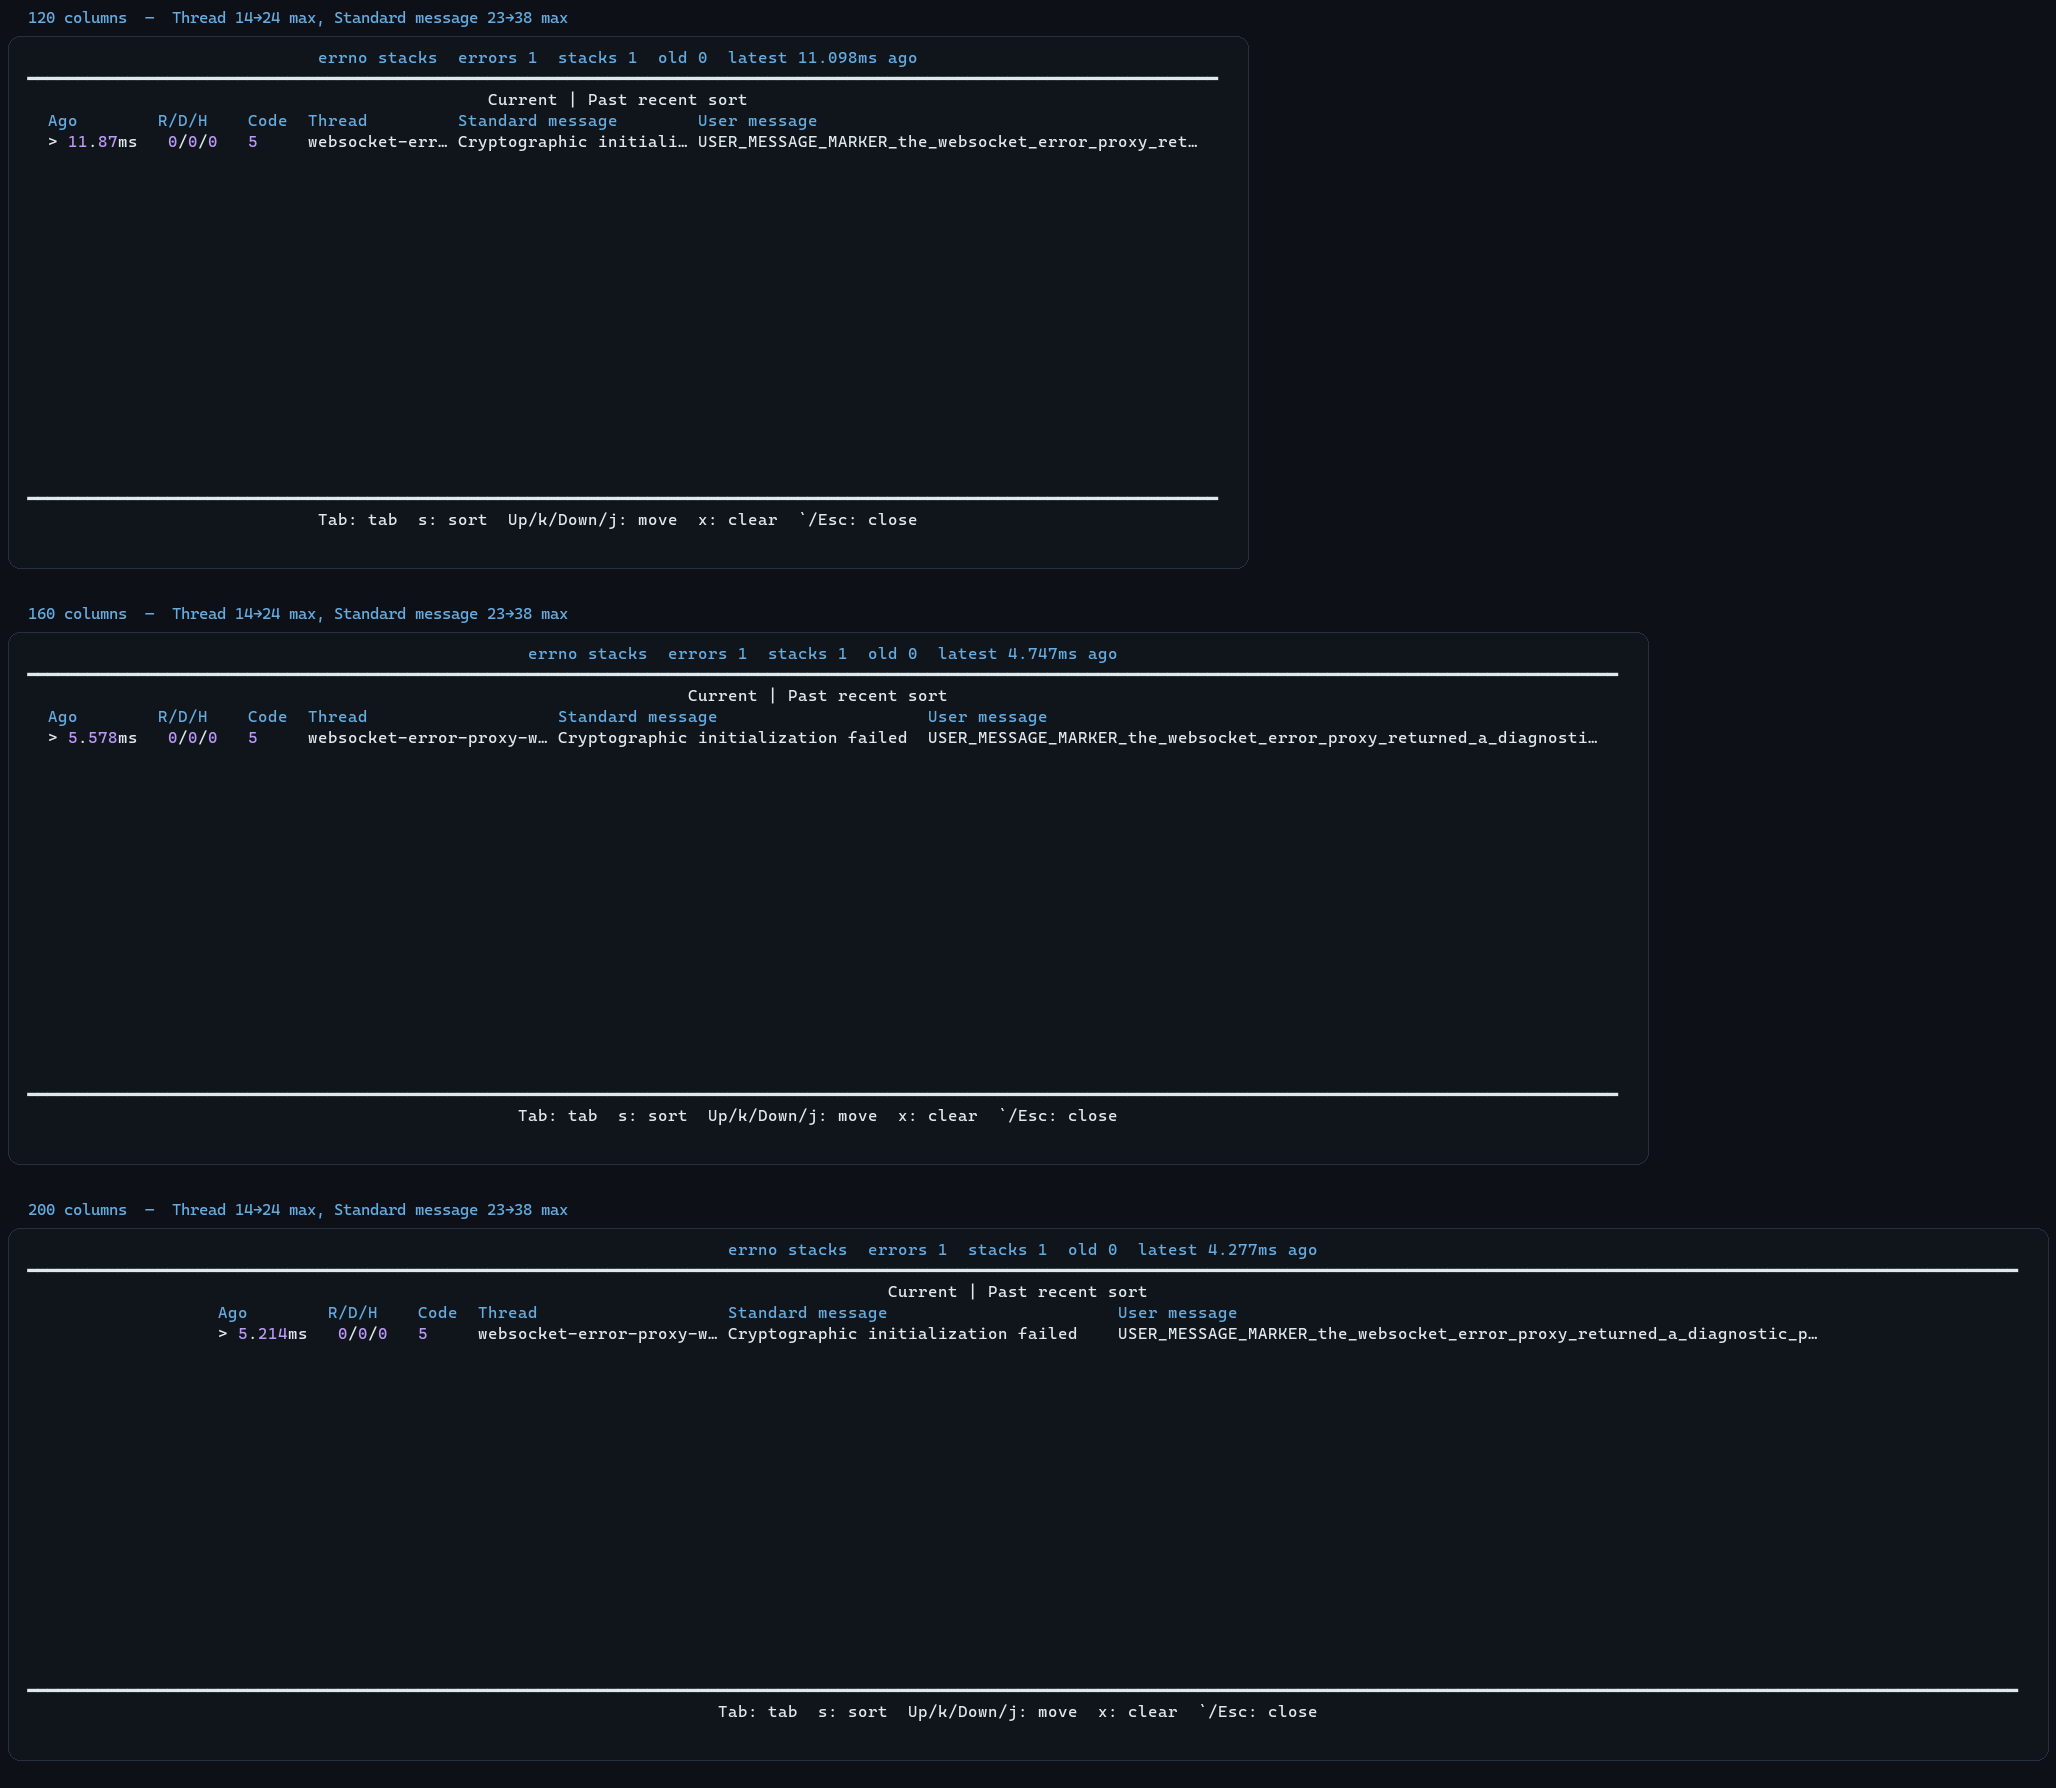
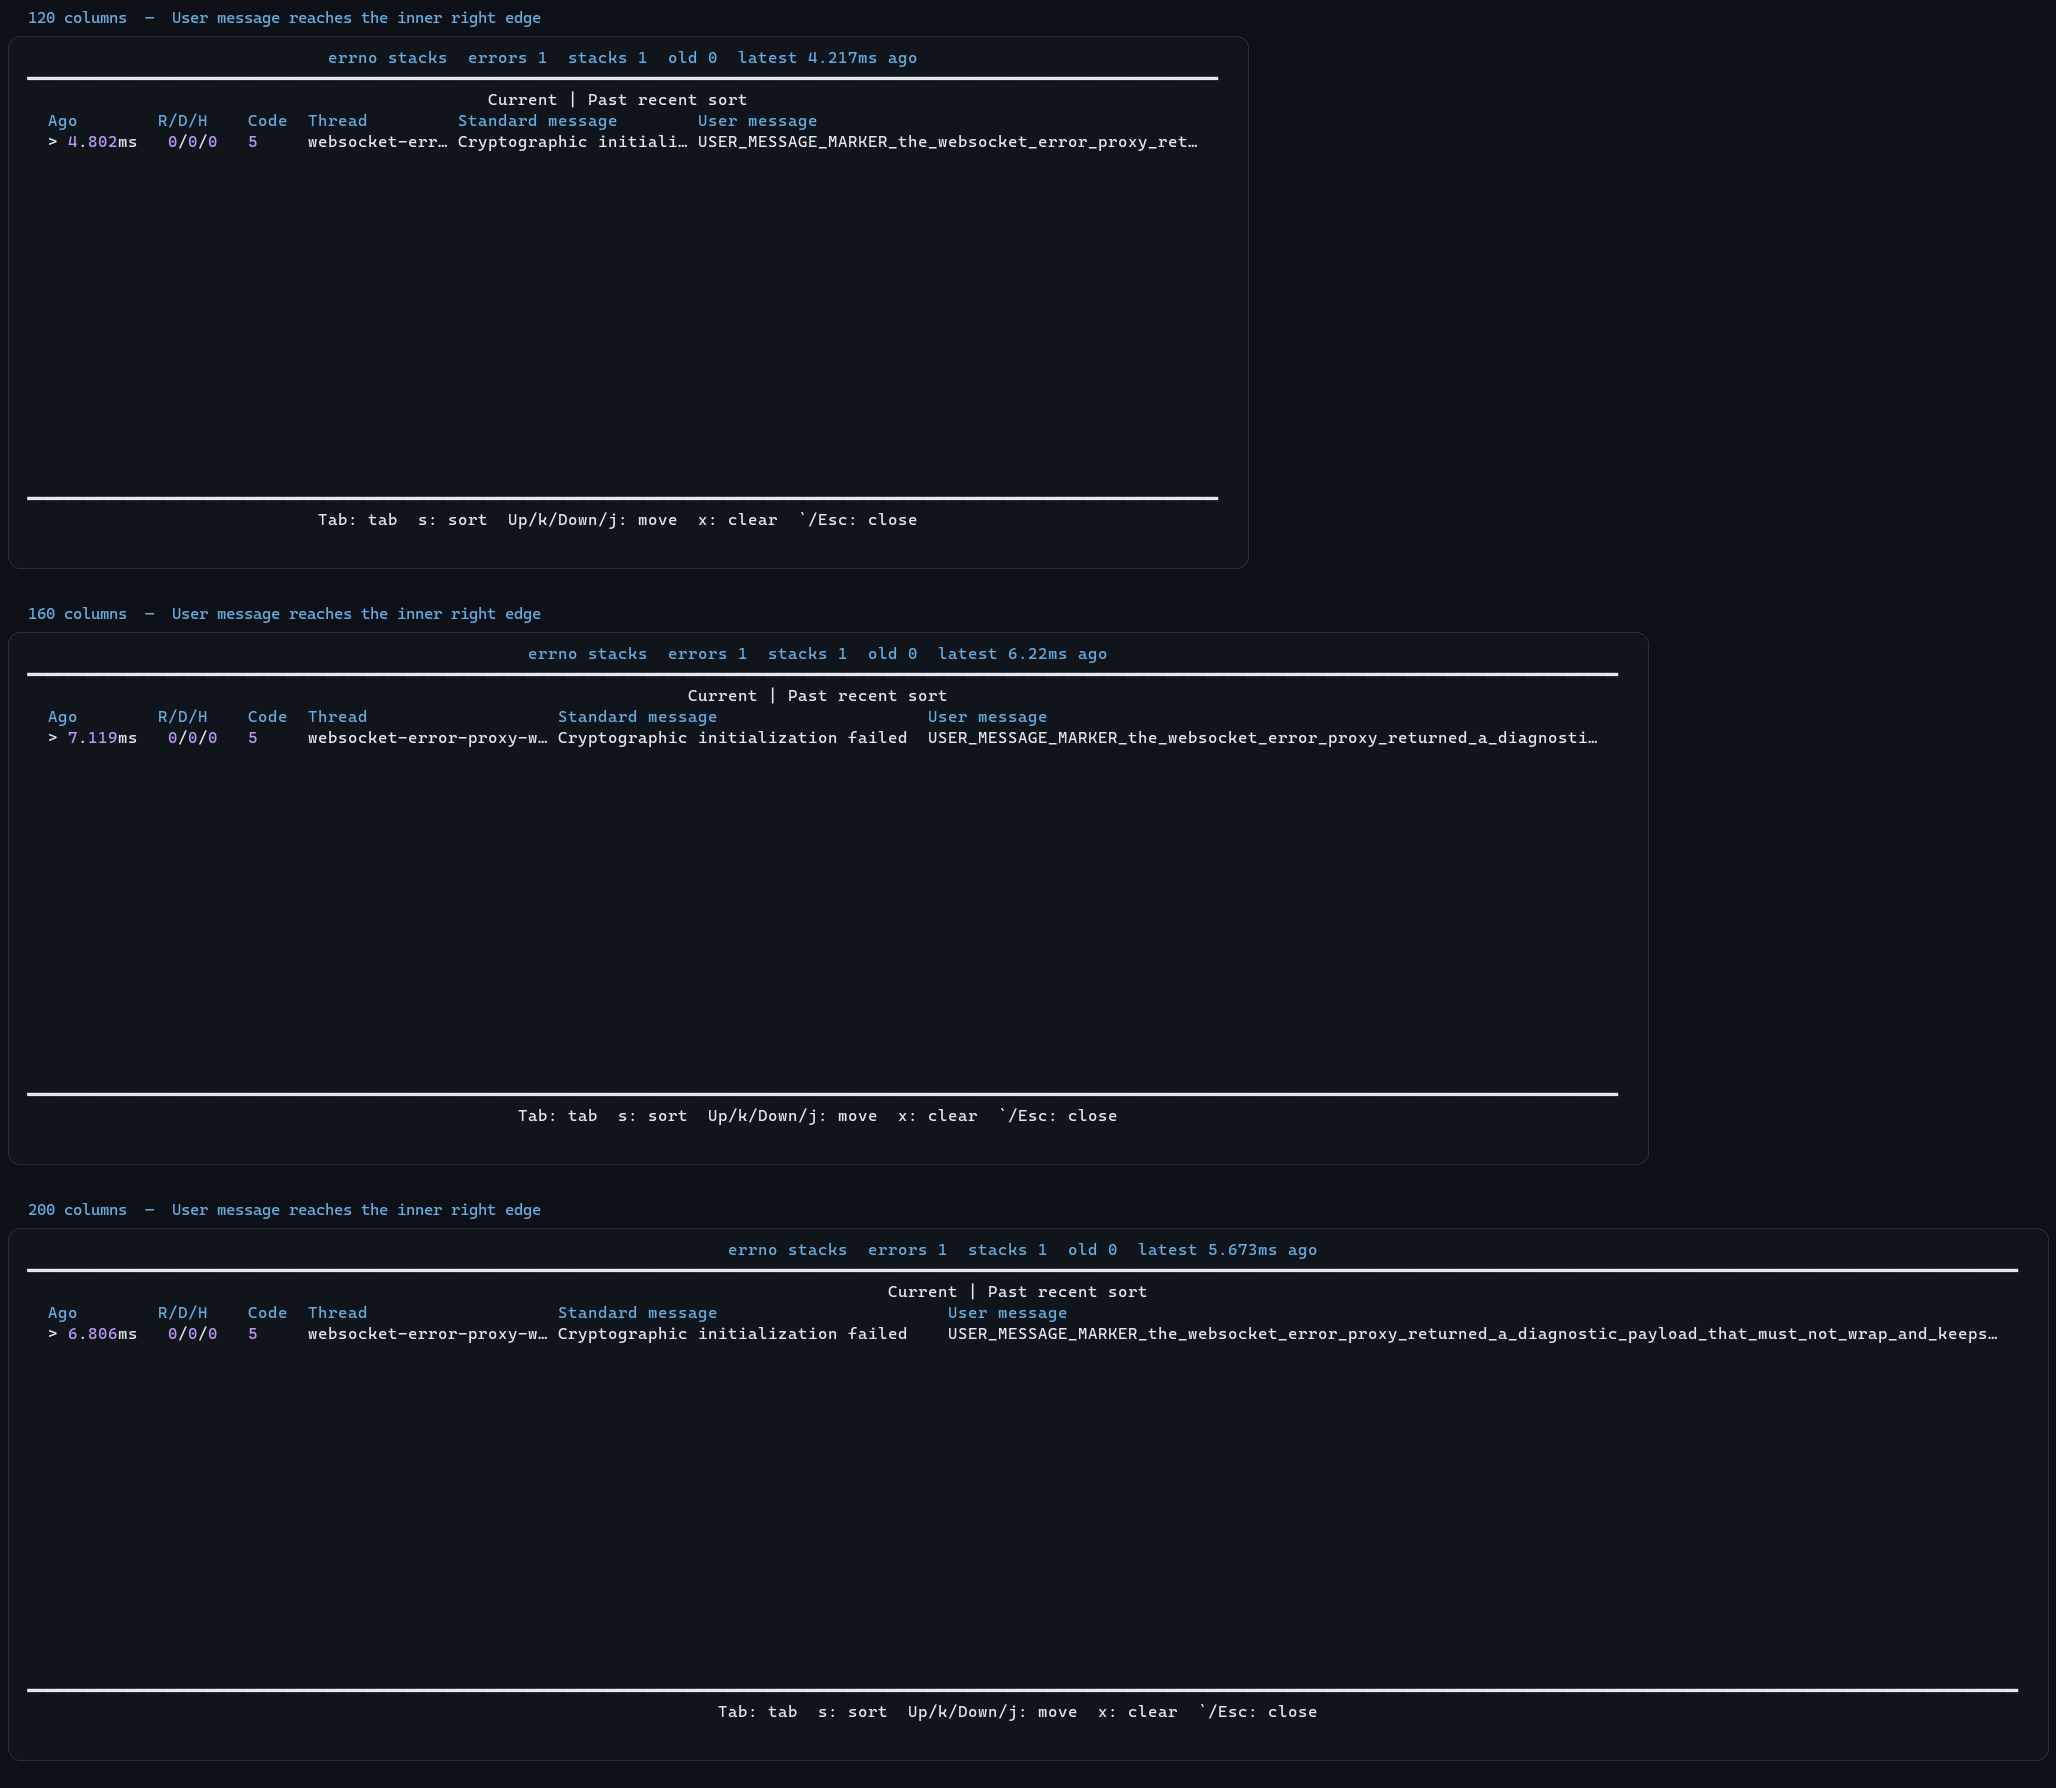
fix: extend errno user message to table edge

diff --git a/lib/ui/errno_stacks.c b/lib/ui/errno_stacks.c
@@ -22,7 +22,6 @@
 #define ERRNO_TUI_MIN_ROWS 10
 #define ERRNO_TUI_MAX_ROWS (ASCIICHAT_ERRNO_MAX_FRAMES + ASCIICHAT_ERRNO_HISTORY_SIZE)
 #define ERRNO_TUI_TABLE_BASE_WIDTH 114
-#define ERRNO_TUI_TABLE_MAX_WIDTH 160
 #define ERRNO_TUI_THREAD_BASE_WIDTH 14
 #define ERRNO_TUI_THREAD_MAX_WIDTH 24
 #define ERRNO_TUI_MESSAGE_BASE_WIDTH 23
@@ -207,13 +206,13 @@ static void render_footer(frame_buffer_t *buffer, int width, bool colors) {
 }
 
 static void render_table_line(frame_buffer_t *buffer, const char *line, int width) {
-  int table_width = MIN(width - 4, ERRNO_TUI_TABLE_MAX_WIDTH);
+  int table_width = width - 4;
   int left_padding = (width - table_width) / 2;
   frame_buffer_printf(buffer, "%*s%s\n", left_padding, "", line);
 }
 
 static int table_width_for_terminal(int width) {
-  return MIN(width - 4, ERRNO_TUI_TABLE_MAX_WIDTH);
+  return width - 4;
 }
 
 static int growing_column_width(int table_width, int base_width, int max_width, int divisor) {

diff --git a/tests/integration/errno_tui_ellipsis.py b/tests/integration/errno_tui_ellipsis.py
@@ -26,7 +26,7 @@ def screen_row(term):
 
 
 def assert_clipped(row, suffix, columns):
-    table_width = min(columns - 1 - 4, 160)
+    table_width = columns - 1 - 4
     left_padding = (columns - 1 - table_width) // 2
     table_end = left_padding + table_width
     visible = row[:table_end]
@@ -96,7 +96,7 @@ def exercise(binary, utf8, artifacts):
         render_capture(term, artifacts, "errno-tui-160-utf8" if utf8 else "errno-tui-160-ascii")
 
         term.resize(24, 200)
-        capped, capped_end = wait_for_clipped(term, suffix, 200, "errno stack did not respect the table maximum")
+        capped, capped_end = wait_for_clipped(term, suffix, 200, "errno stack did not widen to the terminal edge")
         assert capped_end > wider_end, (wider_end, capped_end, capped)
         render_capture(term, artifacts, "errno-tui-200-utf8" if utf8 else "errno-tui-200-ascii")
 

diff --git a/tests/standalone/errno/errno_tui_fixture.c b/tests/standalone/errno/errno_tui_fixture.c
@@ -17,7 +17,8 @@ static void *publish_long_error(void *opaque) {
   fixture_state_t *state = opaque;
   NAMED_REGISTER_ID(thread_current_id(), "websocket-error-proxy-worker-with-a-long-name", "thread", "0x%tx", NULL);
   SET_ERRNO(ERROR_CRYPTO_INIT,
-            "USER_MESSAGE_MARKER_the_websocket_error_proxy_returned_a_diagnostic_payload_that_must_not_wrap");
+            "USER_MESSAGE_MARKER_the_websocket_error_proxy_returned_a_diagnostic_payload_that_must_not_wrap_"
+            "and_keeps_going_until_the_user_message_column_reaches_the_right_hand_table_edge_before_ellipsizing");
   atomic_store(&state->ready, true);
   while (!atomic_load(&state->stop))
     platform_sleep_ms(10);
